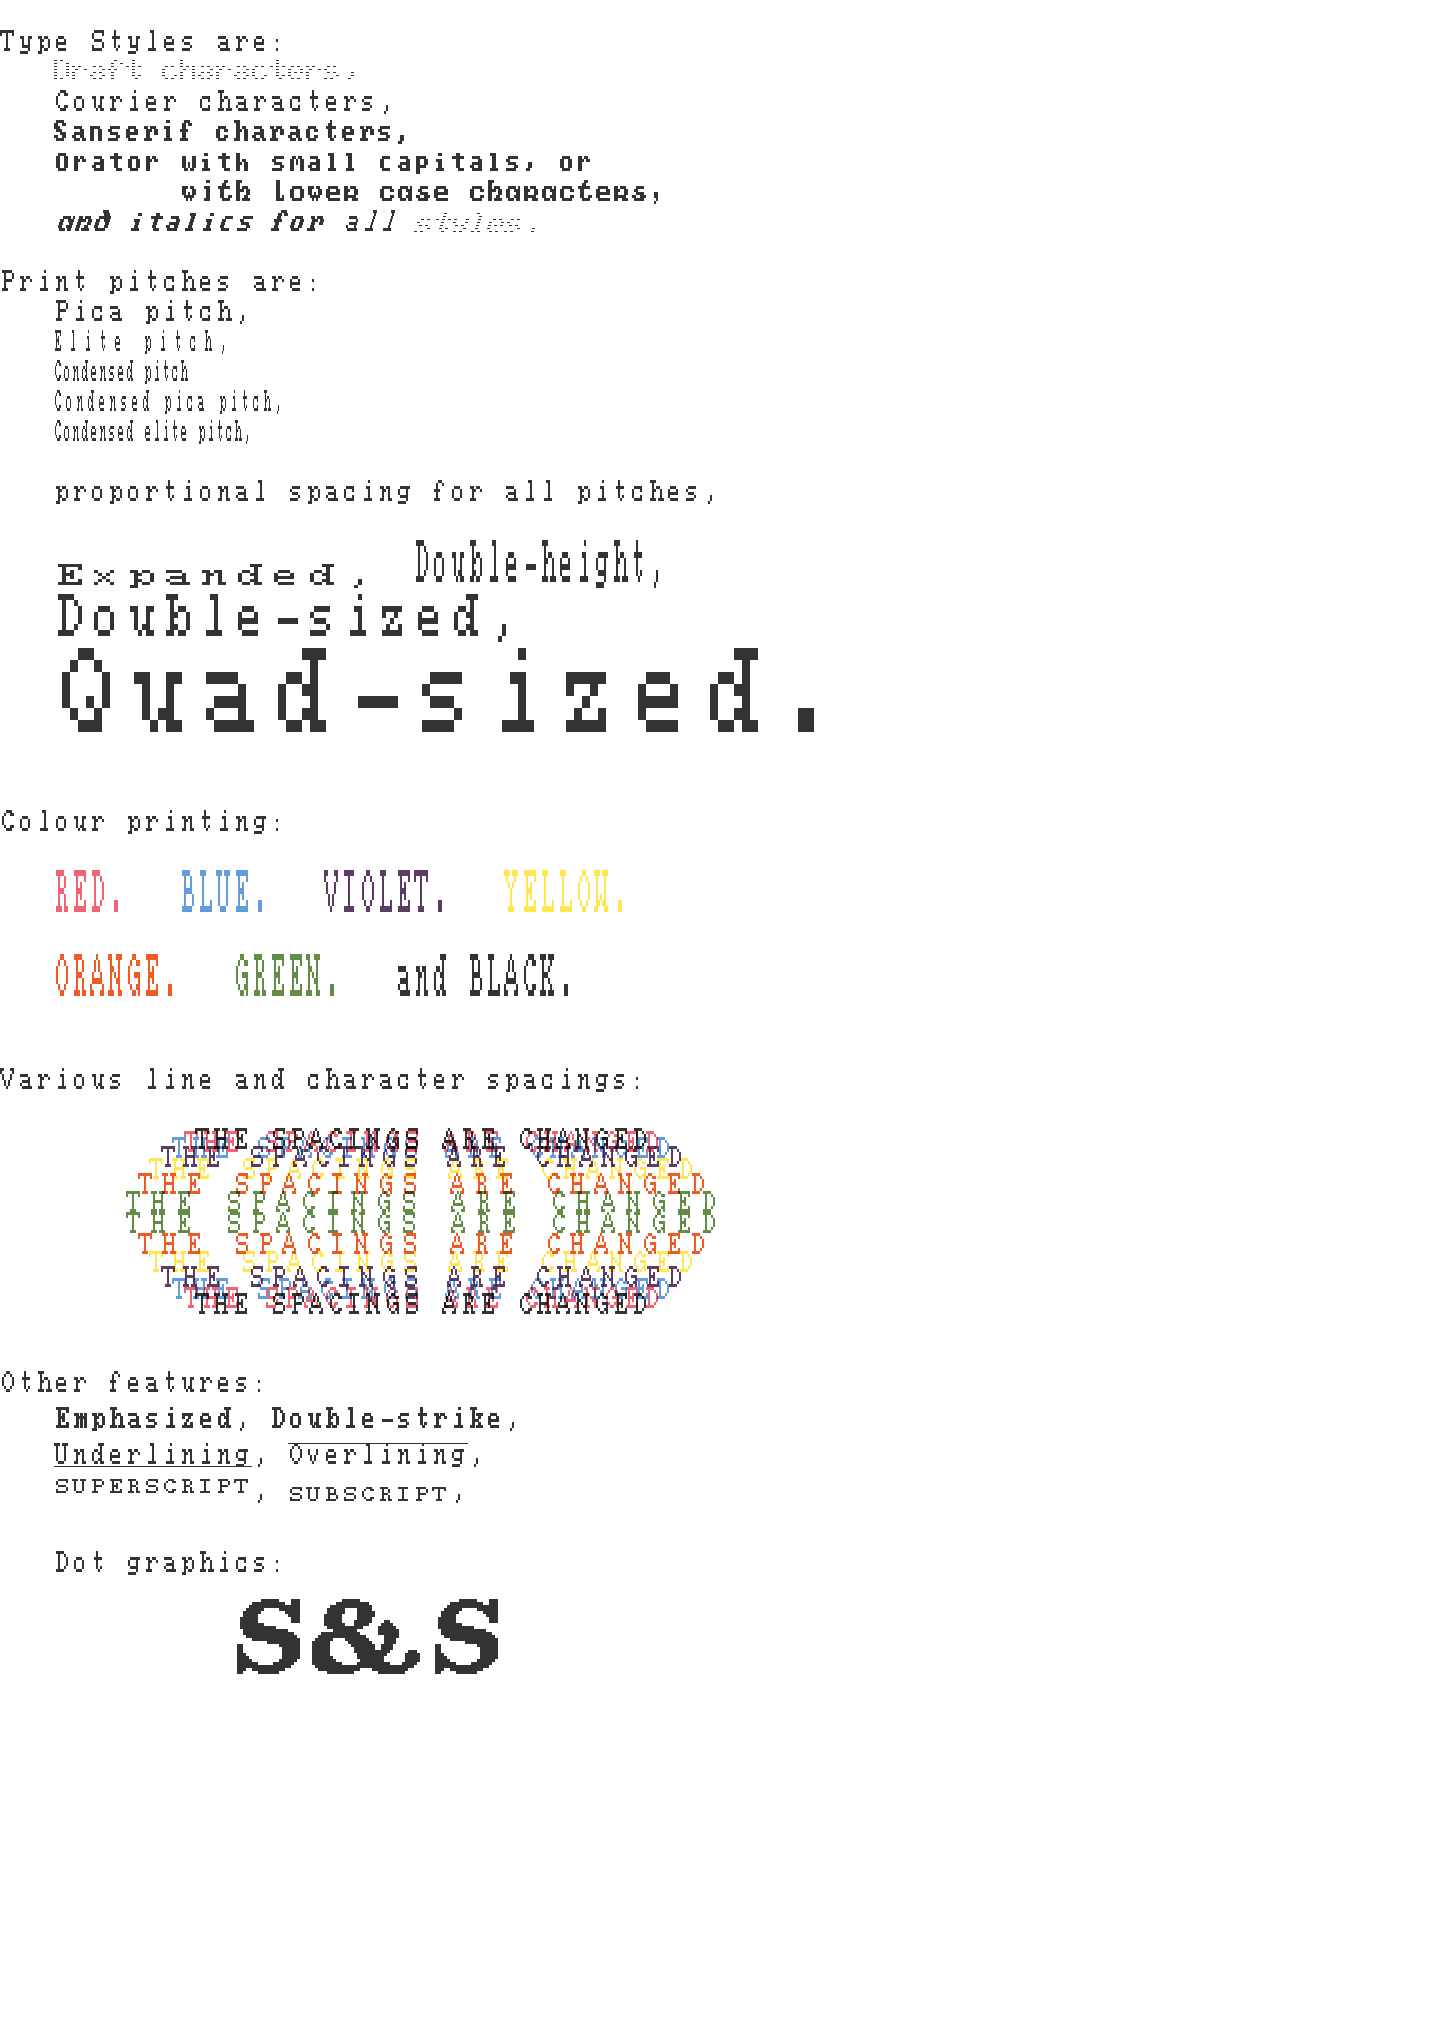
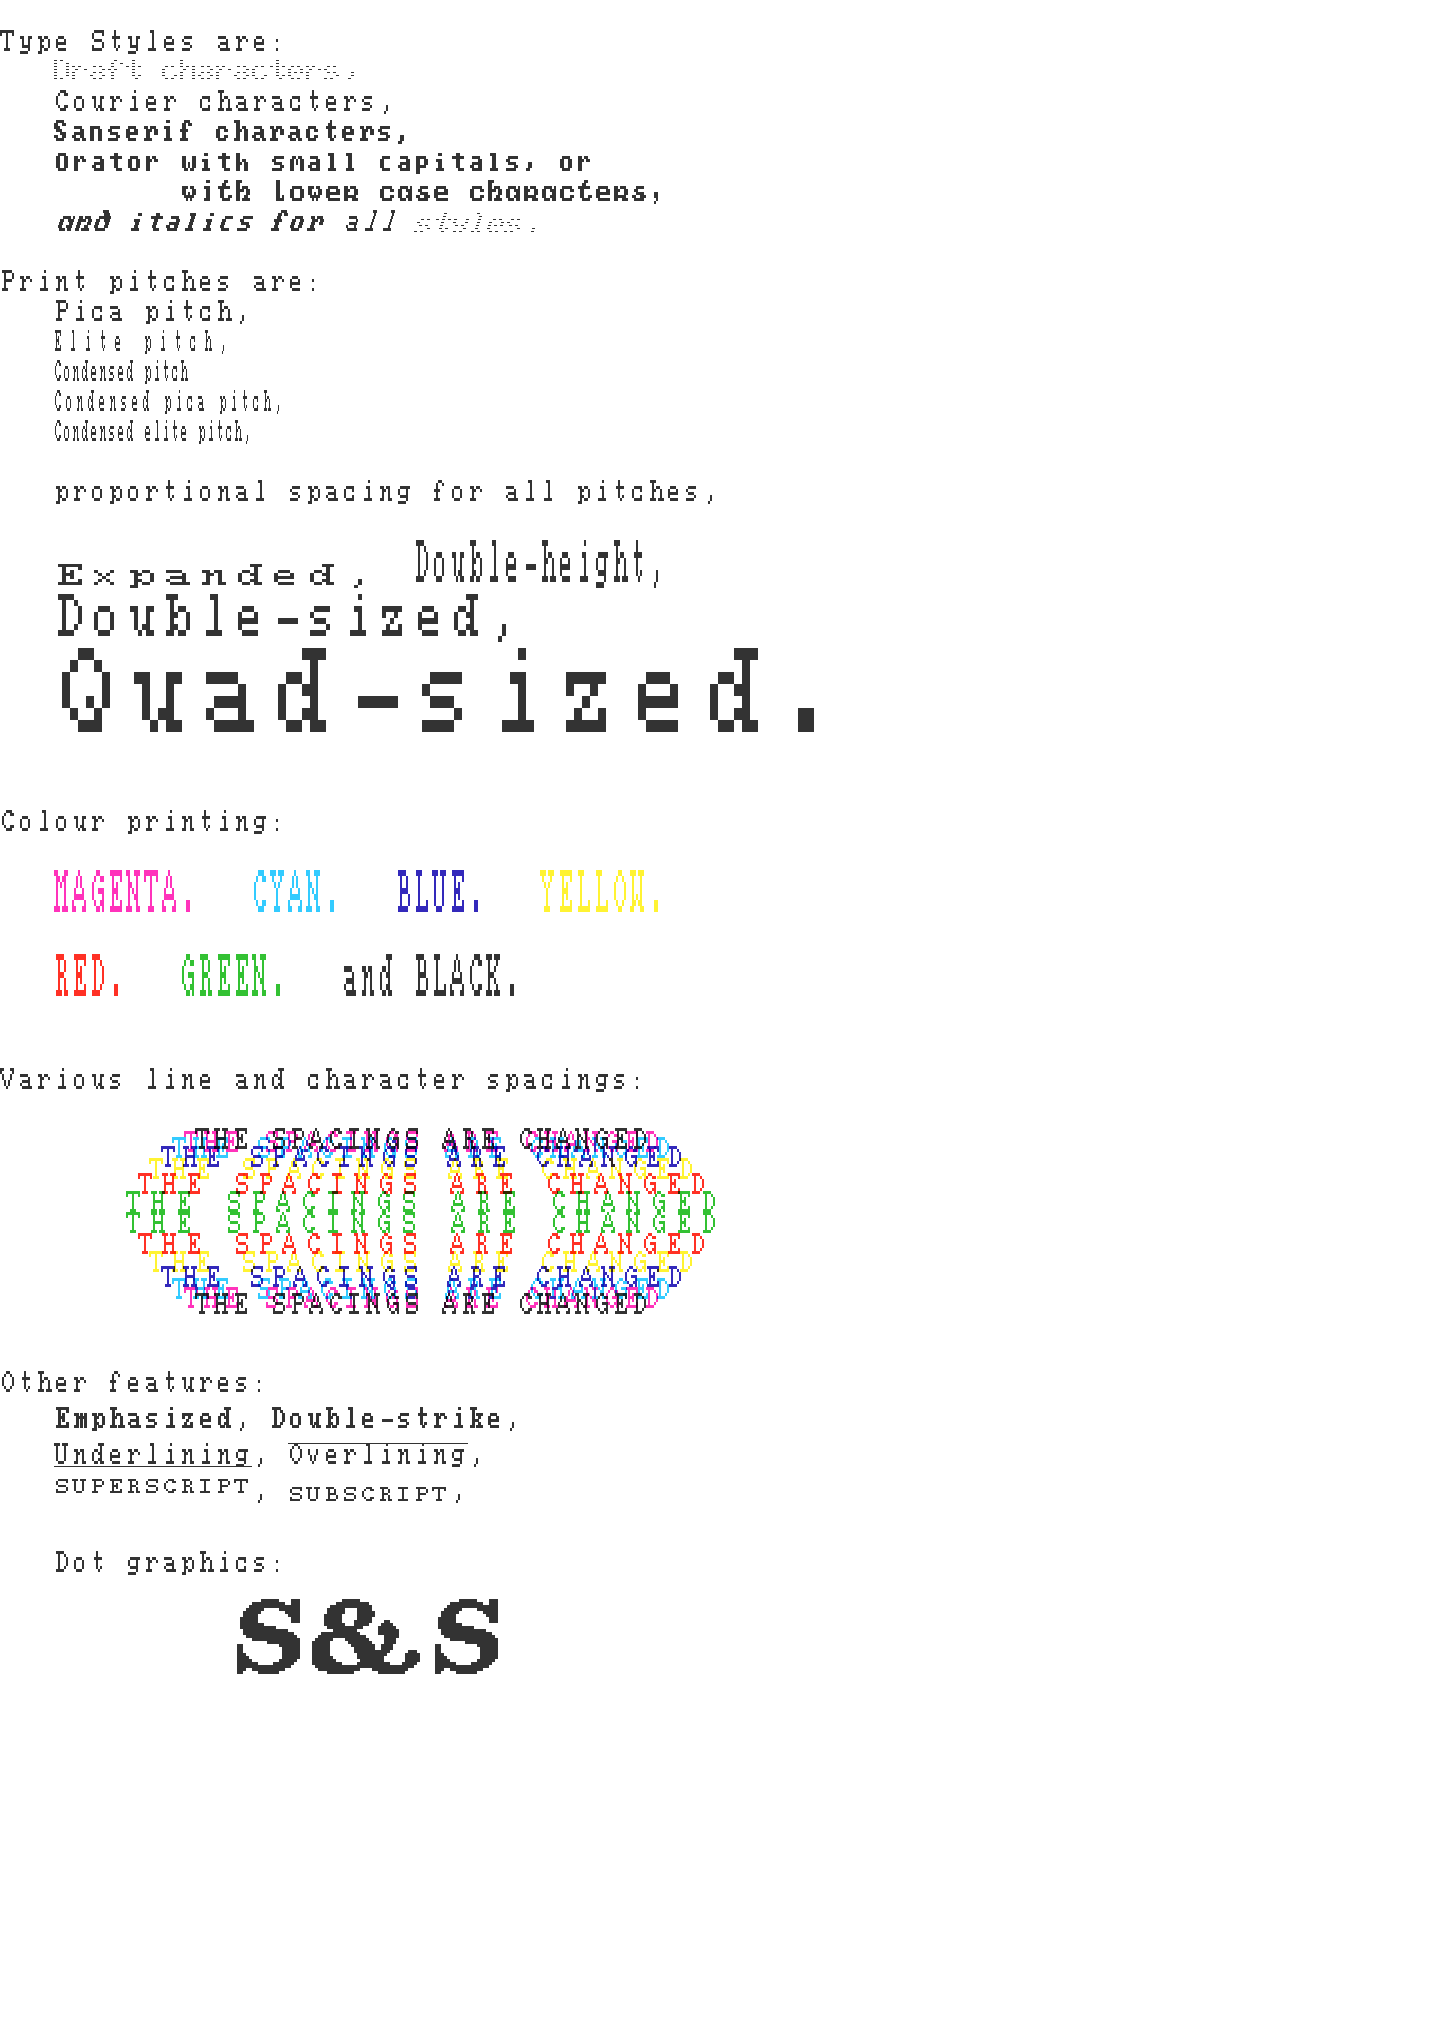
now print

Changed region(s): [[0.0938, 0.5551, 0.5, 0.6476], [0.0312, 0.4317, 0.4375, 0.4934]]

diff --git a/README.md b/README.md
@@ -33,7 +33,6 @@ the RGB led of the board indicate the state of the printer:
 ## Future works:
 General TODO
 * Send the page (PDF) to a IPP printer automatically if configured for that.
-* made Configurable settings via web without restart wifi.
 
 Printer Emulation
 * Proporcional font.
@@ -41,7 +40,6 @@ Printer Emulation
 * Fonts loadables and in RAM.
 * Country Setings, and slashed 0.
 * User configurable fonts.
-* Verify if ribbon (ink) is BYRK, or CYMK.
 
 Tests
 * Verify with Windows and Linux drivers.
